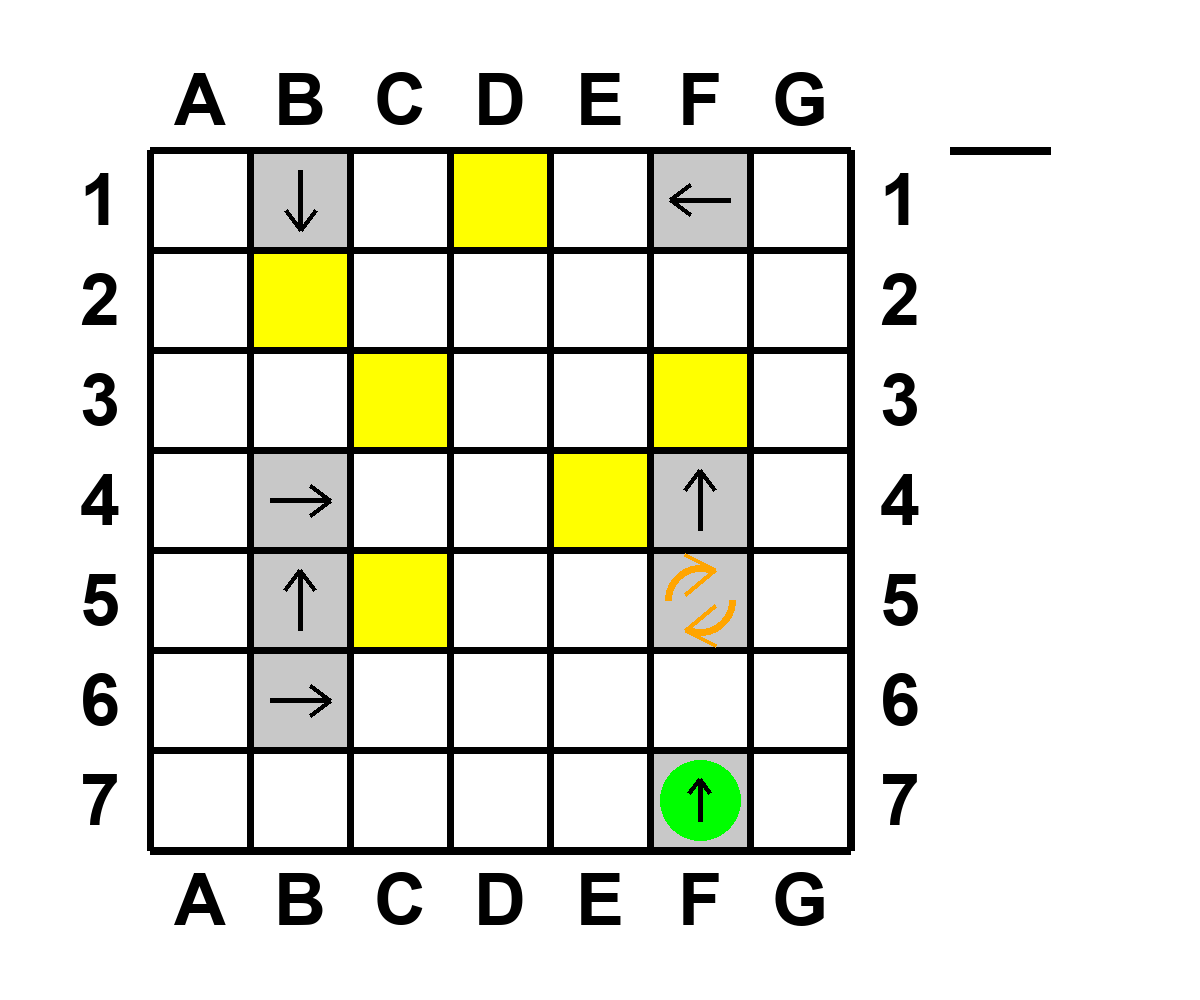
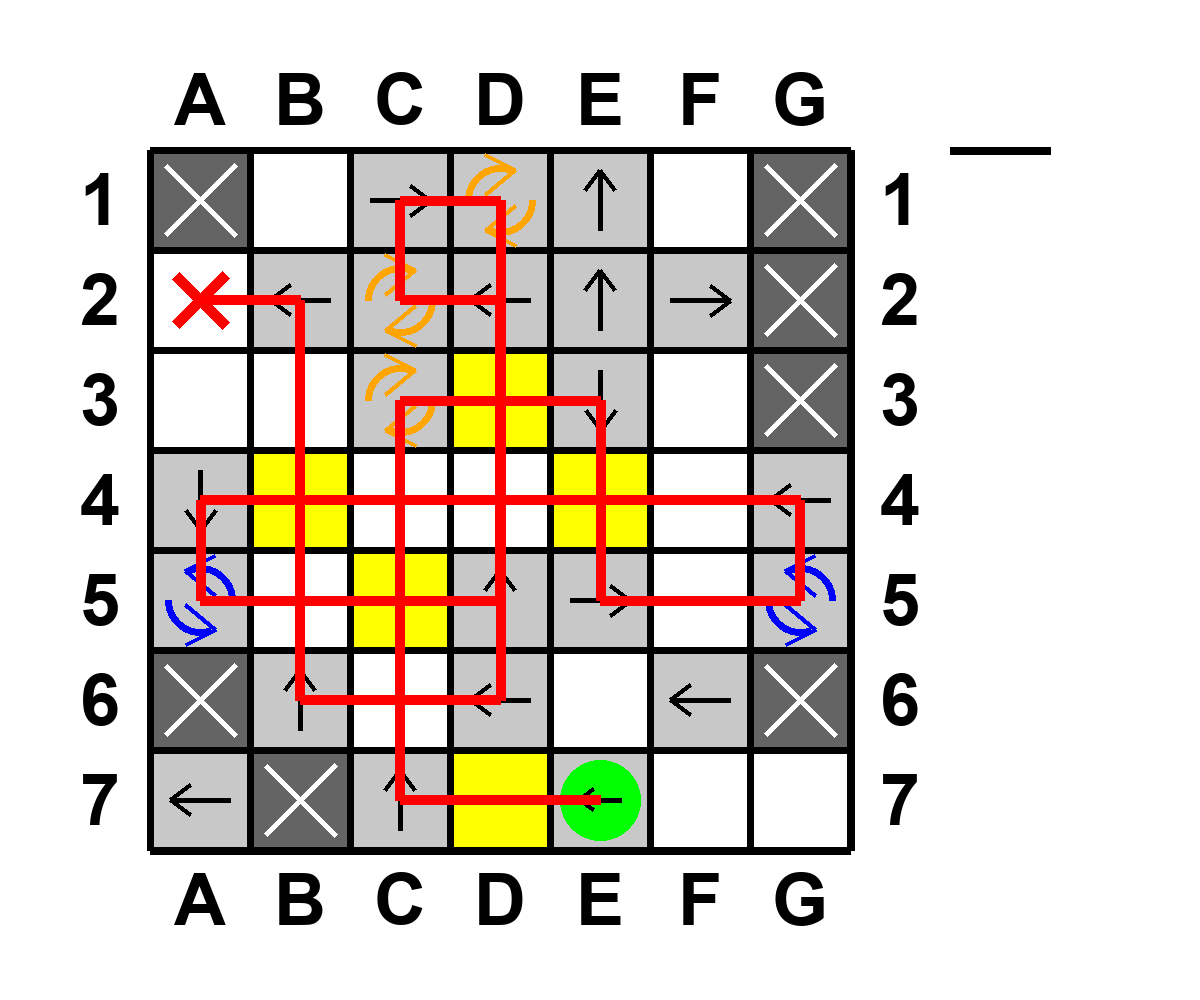
New submission format

Changed region(s): [[0.1233, 0.155, 0.7092, 0.868]]

diff --git a/game.py b/game.py
@@ -33,6 +33,11 @@ def drawArrow(draw, x, y, dir, size=1): # x and y are centered spaces
 
 def drawTilt(draw, x, y, dir):
     if dir == "C":
+        dir = "A"
+    else:
+        dir = "C"
+    # LOL
+    if dir == "C":
         draw.arc((x-35, y-35, x+35, y+35), -110, 0, fill=(0, 0, 255), width=8)
         draw.arc((x-35, y-35, x+35, y+35), -290, -180, fill=(0, 0, 255), width=8)
     elif dir == "A":
@@ -141,10 +146,37 @@ class Game():
             if level == 10:
                 l = 7
                 w = 7
-                arrow_count = 7
+                arrow_count = 5
                 tilts = 2
+                star_count = 5
+                removed_arrows = 2
+            if level == 11:
+                l = 7
+                w = 7
+                arrow_count = 8
+                tilts = 4
+                walls = 3
+                unnec_arrows = 3
                 star_count = 6
+                removed_arrows = 2
+            if level == 12:
+                l = 7
+                w = 7
+                arrow_count = 10
+                removed_arrows = 2
+                tilts = 7
+                walls = 5
+                star_count = 5
+            if level == 13:
+                l = 7
+                w = 7
+                arrow_count = 16
+                tilts = 7
+                walls = 7
+                unnec_arrows = 5
+                star_count = 5
                 removed_arrows = 0
+        # NOTE: ARROWS must be greater than or equal to tilts, removed_arrows
         self.grid = Grid()
         self.grid.generateGrid(level, l, w, arrow_count, star_count, unnec_arrows, walls, tilts)
 
@@ -154,7 +186,6 @@ class Game():
         await self.check()
 
     async def check(self, laser=0): # laser is boolean
-        self.grid.printGrid()
         l = self.grid.l 
         w = self.grid.w
 
@@ -242,6 +273,26 @@ class Game():
                 if [player_loc[0], player_loc[1]] not in visited_array:
                     if self.grid.tempgrid[player_loc[1]][player_loc[0]][0].upper() in ["A", "B"]:
                         player_dir = self.grid.tempgrid[player_loc[1]][player_loc[0]][1]
+                    if self.grid.tempgrid[player_loc[1]][player_loc[0]].upper() == "TC":
+                        # CLOCKWISE TURN
+                        if player_dir == "U":
+                            player_dir = "R"
+                        elif player_dir == "R":
+                            player_dir = "D"
+                        elif player_dir == "D":
+                            player_dir = "L"
+                        elif player_dir == "L":
+                            player_dir = "U"
+                    if self.grid.tempgrid[player_loc[1]][player_loc[0]].upper() == "TA":
+                        # CLOCKWISE TURN
+                        if player_dir == "U":
+                            player_dir = "L"
+                        elif player_dir == "L":
+                            player_dir = "D"
+                        elif player_dir == "D":
+                            player_dir = "R"
+                        elif player_dir == "R":
+                            player_dir = "U"
                 visited_array.append(player_loc.copy())
                 # move to next location
                 if player_dir == "U":

diff --git a/grid.py b/grid.py
@@ -232,7 +232,7 @@ class Grid():
                     if i.x == prev_x:
                         candidate_spaces.append(i)
         if len(candidate_spaces) == 0:
-            self.generateGrid(l, w, arrow_count, star_count, unnec_arrows)
+            self.generateGrid(l, w, arrow_count, star_count, unnec_arrows, walls, tilts)
             return
         seed = random.randint(0, len(candidate_spaces)-1)
         space = candidate_spaces[seed]
@@ -355,6 +355,7 @@ class Grid():
             s = random.randint(0, len(arrow_spaces)-1)
             sy = arrow_spaces[s][0]
             sx = arrow_spaces[s][1]
+            print (i, sx, sy)
             self.inventory.append(self.tempgrid[sy][sx][0].lower()+self.tempgrid[sy][sx][1])
             self.tempgrid[sy][sx] = "00"
             arrow_spaces.pop(s)

diff --git a/main.py b/main.py
@@ -47,7 +47,9 @@ class MyClient(discord.Client):
 			return
 
 		if inp[0] == ".place" or inp[0] == ".p":
-			await players[message.author].game.place(int(inp[1]), inp[2])
+			for i in range(1, len(inp)):
+				if inp[i][1] == "-":
+					await players[message.author].game.place(int(inp[i][0]), inp[i][2:])
 			return
 
 		if inp[0] == ".remove" or inp[0] == ".r":
